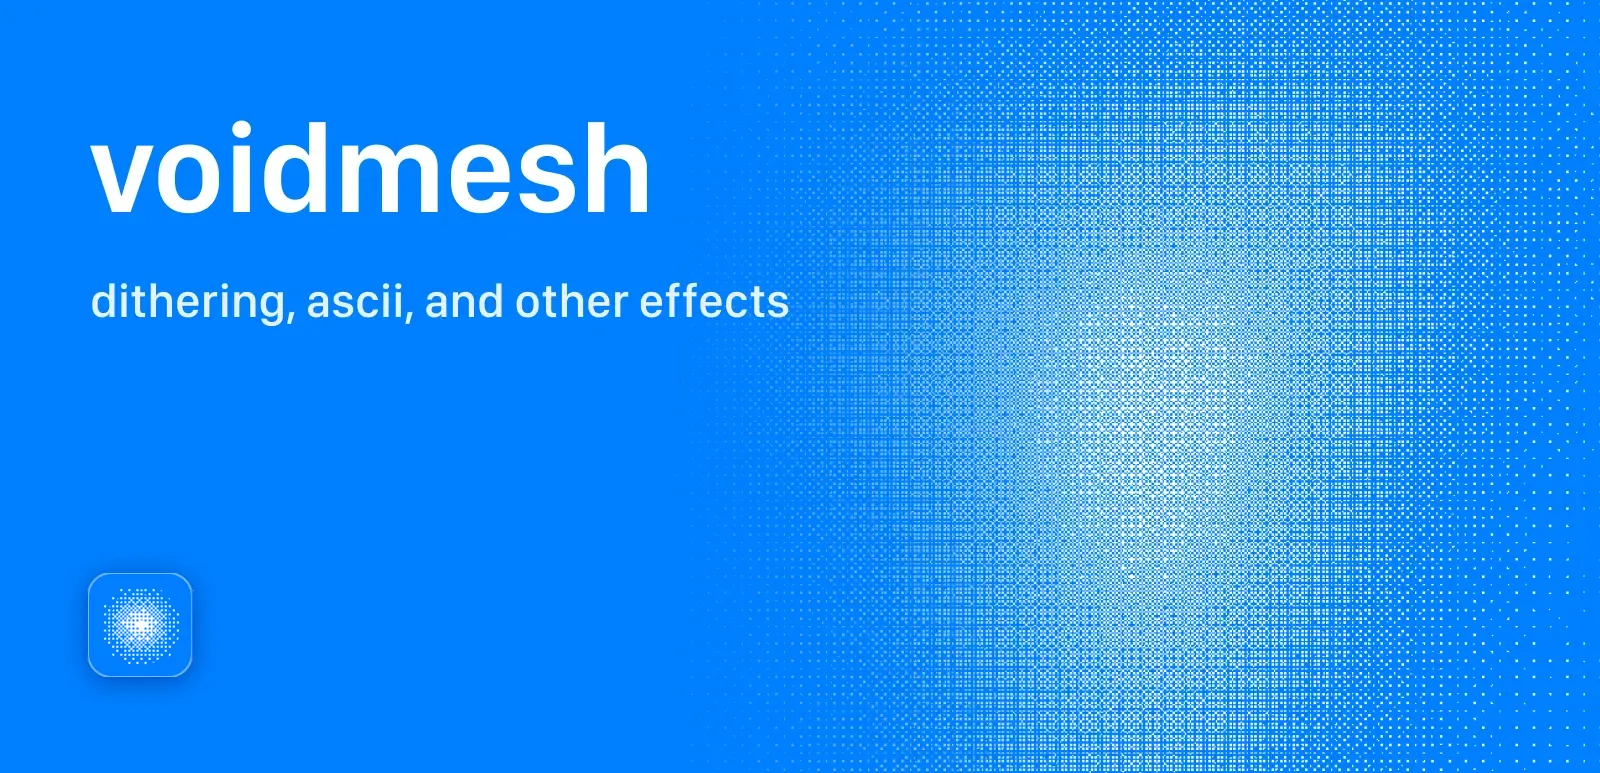
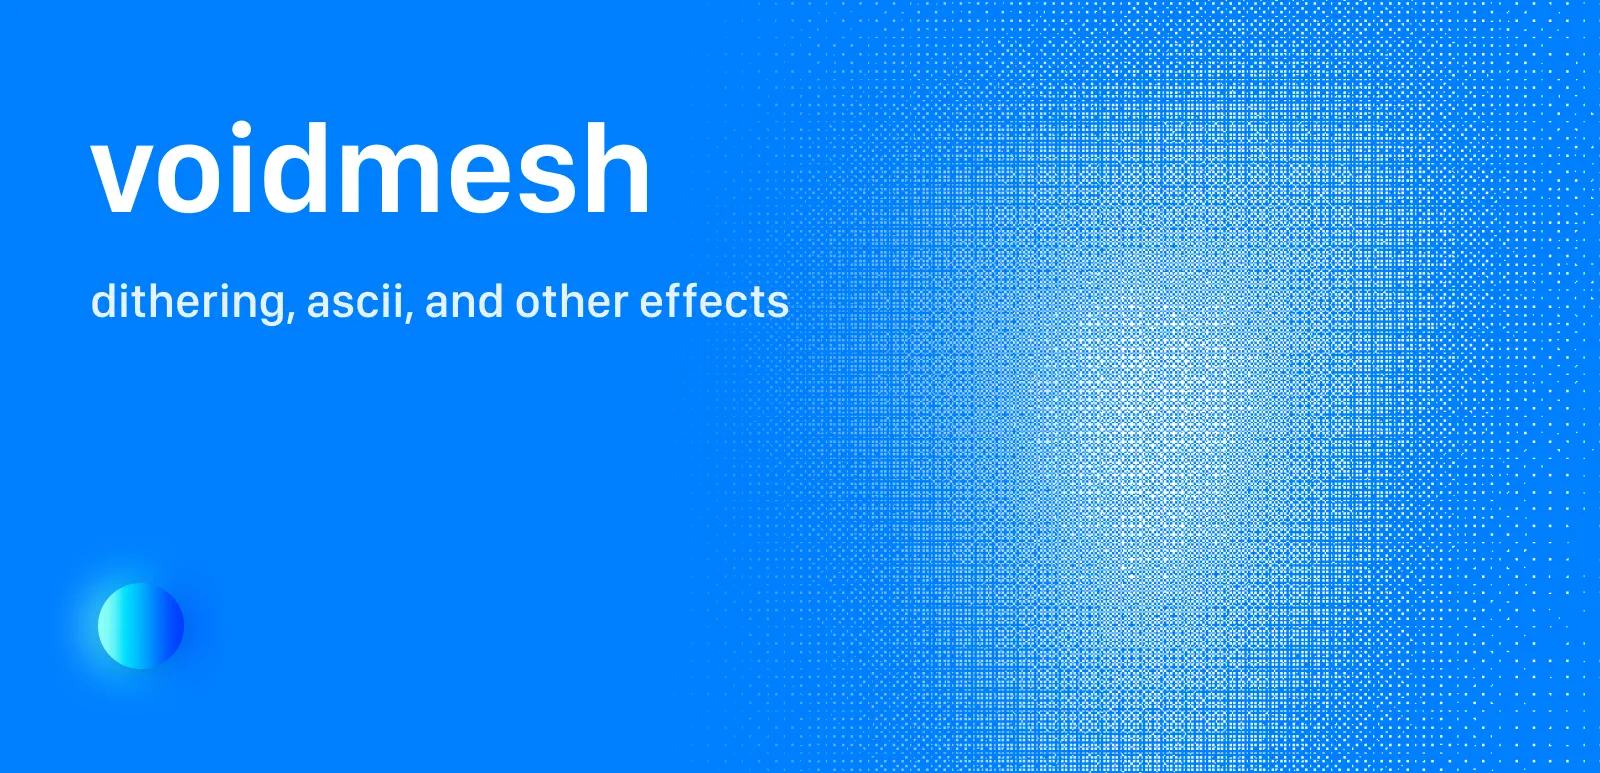
Ship a ray-traced black hole as the social card
public/og.png is a geodesic ray trace of a Schwarzschild black hole with
a thin Keplerian disk, ordered-dithered to the brand-blue ramp. It is
served from the app instead of blob storage, so it deploys with the
site and the new URL skips stale social caches. The older og images are
restored to main, since nothing references them.

Claude-Session: https://claude.ai/code/session_01LzJq4HDFUd6AU47ATeUcVS

diff --git a/index.html b/index.html
@@ -19,7 +19,7 @@
     />
     <meta name="author" content="Daniel Wargh" />
     <!-- Twitter -->
-    <meta name="twitter:image" content="https://voidmesh.xyz/m/og/og.png" />
+    <meta name="twitter:image" content="https://voidmesh.xyz/og.png" />
     <meta name="twitter:card" content="summary_large_image" />
     <meta name="twitter:title" content="Voidmesh" />
     <meta
@@ -29,10 +29,13 @@
     <meta name="twitter:creator" content="@ogdakke" />
 
     <!-- Open Graph / Facebook -->
-    <meta property="og:image" content="https://voidmesh.xyz/m/og/og.webp" />
+    <meta property="og:image" content="https://voidmesh.xyz/og.png" />
+    <meta property="og:image:type" content="image/png" />
+    <meta property="og:image:width" content="2400" />
+    <meta property="og:image:height" content="1260" />
     <meta
       property="og:image:alt"
-      content="Voidmesh written in white, on a bright blue background, with a dithered blob next to it"
+      content="A dithered black hole in shades of blue, its disk lensed over and under the shadow, next to the Voidmesh pixel wordmark"
     />
     <meta property="og:url" content="https://voidmesh.xyz" />
     <meta property="og:title" content="Voidmesh" />
@@ -62,7 +65,7 @@
           "@type": "Person",
           "name": "Daniel Wargh"
         },
-        "image": "https://voidmesh.xyz/m/og/og.webp"
+        "image": "https://voidmesh.xyz/og.png"
       }
     </script>
 
